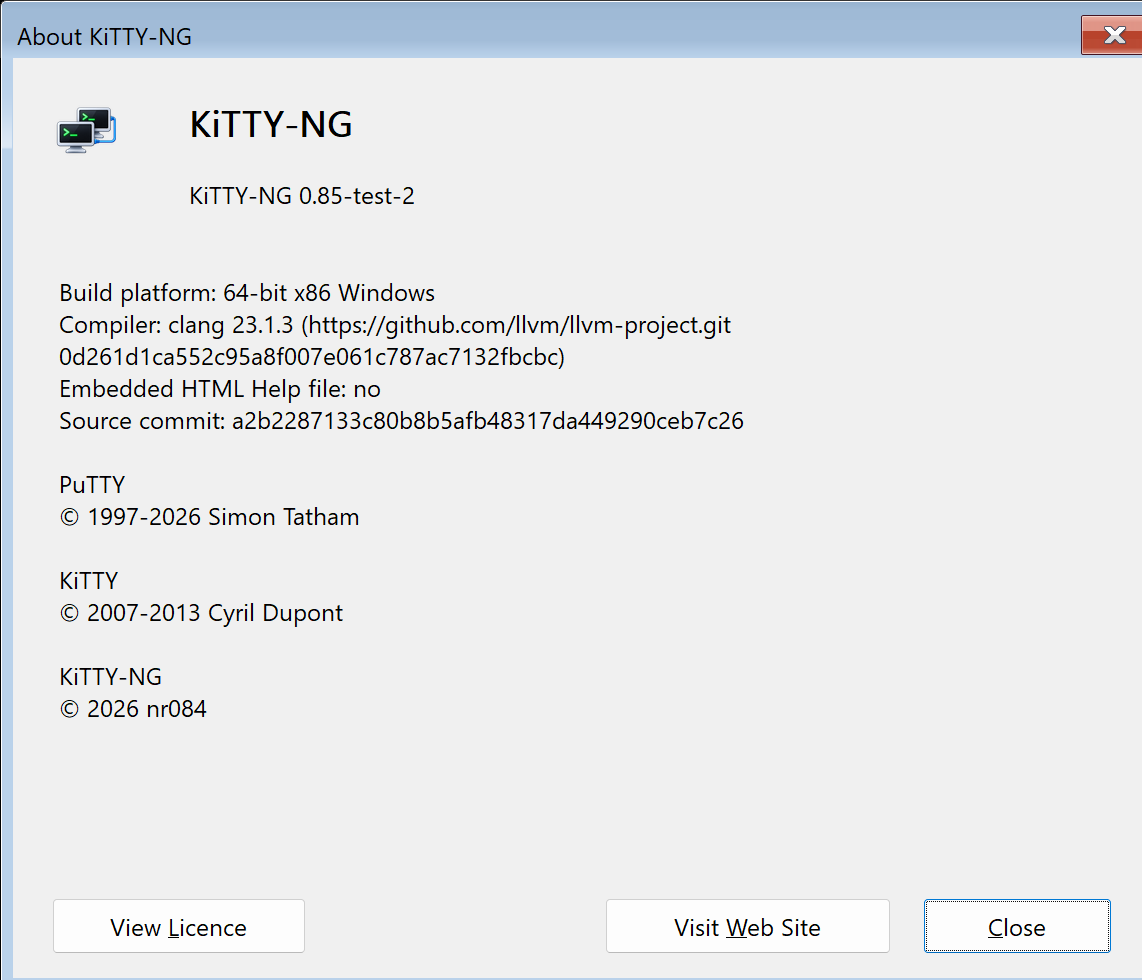
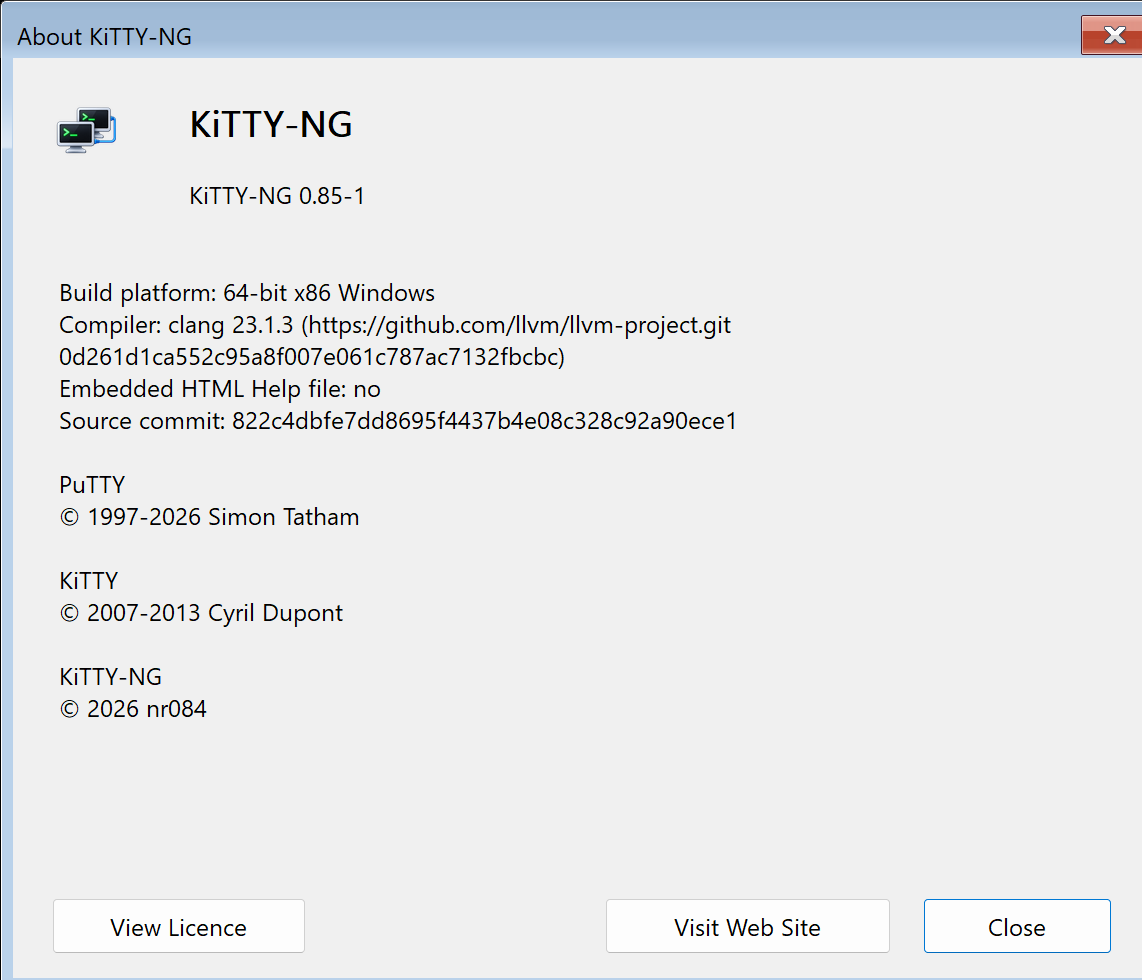
Подготовить релиз KiTTY-NG 0.85-1 без тестовой отметки

Changed region(s): [[0.2145, 0.398, 0.6436, 0.4592], [0.3065, 0.1837, 0.3678, 0.2143]]

diff --git a/tools/set-release-stage.py b/tools/set-release-stage.py
@@ -4,10 +4,14 @@ import re
 from pathlib import Path
 
 parser = argparse.ArgumentParser()
-parser.add_argument("stage", help="test, test-2, test-3, ... or stable")
+parser.add_argument("stage", help="KiTTY-NG revision: 1, 2, ...; legacy test/test-N/stable also accepted")
 args = parser.parse_args()
-if args.stage != "stable" and not re.fullmatch(r"test(?:-(?:[2-9]|[1-9][0-9]+))?", args.stage):
-    parser.error("stage must be test, test-N (N >= 2), or stable")
+revision = int(args.stage) if re.fullmatch(r"[1-9][0-9]*", args.stage) else None
+is_test = bool(re.fullmatch(r"test(?:-(?:[2-9]|[1-9][0-9]+))?", args.stage))
+if revision is not None and revision > 65535:
+    parser.error("Windows version revision must be at most 65535")
+if revision is None and args.stage != "stable" and not is_test:
+    parser.error("stage must be a positive revision number, test, test-N, or stable")
 root = Path(__file__).resolve().parents[1]
 header = root / "version.h"
 text = header.read_text()
@@ -16,7 +20,10 @@ base = re.search(r"^#define RELEASE (\d+\.\d+)$", text, re.M).group(1)
 version = base + ("" if args.stage == "stable" else "-" + args.stage)
 text = re.sub(r'^#define TEXTVER .*$', f'#define TEXTVER "KiTTY-NG {version}"', text, flags=re.M)
 text = re.sub(r'^#define SSHVER .*$', f'#define SSHVER "-Release-{version}"', text, flags=re.M)
-if args.stage != "stable":
+major, minor = map(int, base.split("."))
+text = re.sub(r'^#define BINARY_VERSION .*$',
+              f'#define BINARY_VERSION {major},{minor},{revision or 0},0', text, flags=re.M)
+if is_test:
     text = text.replace(f"#define RELEASE {base}\n", f"#define RELEASE {base}\n#define PRERELEASE 1\n")
 header.write_text(text)
 (root / "VERSION").write_text(version + "\n")

diff --git a/tools/package-release.py b/tools/package-release.py
@@ -2,6 +2,7 @@
 import argparse
 import hashlib
 import struct
+import re
 import zipfile
 from pathlib import Path
 from build_names import release_executables
@@ -15,12 +16,23 @@ root = Path(__file__).resolve().parents[1]
 version = (root / "VERSION").read_text().strip()
 machine = {"x64": 0x8664, "x86": 0x14c, "arm64": 0xaa64}[args.arch]
 names = release_executables(args.arch)
+base = re.match(r"(\d+)\.(\d+)", version)
+assert base
+major, minor = map(int, base.groups())
+suffix = version[len(base.group()):]
+revision = int(suffix[1:]) if re.fullmatch(r"-[1-9][0-9]*", suffix) else 0
+fixed_version = ((major << 16) | minor, revision << 16)
 for name in names:
     data = (args.build / name).read_bytes()
     offset = struct.unpack_from("<I", data, 0x3c)[0]
     assert data[:2] == b"MZ" and data[offset:offset+4] == b"PE\0\0"
     assert struct.unpack_from("<H", data, offset+4)[0] == machine, name
     assert ("KiTTY-NG " + version).encode("utf-16le") in data, (name, "stale version resource")
+    fixed_offset = data.find(struct.pack("<I", 0xFEEF04BD))
+    assert fixed_offset >= 0, (name, "missing fixed version info")
+    fixed = struct.unpack_from("<13I", data, fixed_offset)
+    assert fixed[2:6] == fixed_version * 2, (name, "wrong binary version")
+    assert bool(fixed[7] & 2) == ("-test" in version), (name, "wrong prerelease flag")
 args.output.mkdir(parents=True, exist_ok=True)
 archive = args.output / f"kitty-ng-{version}-{args.arch}.zip"
 with zipfile.ZipFile(archive, "w", compression=zipfile.ZIP_DEFLATED, compresslevel=9) as bundle:

diff --git a/tools/publish-release.py b/tools/publish-release.py
@@ -67,7 +67,10 @@ for asset in report["archives"]:
     print("Uploaded:", path.name, flush=True)
 release = request(API + "/releases/" + str(release["id"]), "GET")
 assert {a["name"] for a in release["assets"]} == expected
-release = request(API + "/releases/" + str(release["id"]), "PATCH", {"draft": False})
+publication = {"draft": False}
+if not metadata["prerelease"]:
+    publication["make_latest"] = "true"
+release = request(API + "/releases/" + str(release["id"]), "PATCH", publication)
 assert not release["draft"]
 # Confirm publication and exact assets; previous releases are retained.
 published = request(API + "/releases/tags/" + tag)

diff --git a/version.h b/version.h
@@ -1,6 +1,5 @@
 /* Generated by automated build script */
 #define RELEASE 0.85
-#define PRERELEASE 1
-#define TEXTVER "KiTTY-NG 0.85-test-3"
-#define SSHVER "-Release-0.85-test-3"
-#define BINARY_VERSION 0,85,0,0
+#define TEXTVER "KiTTY-NG 0.85-1"
+#define SSHVER "-Release-0.85-1"
+#define BINARY_VERSION 0,85,1,0

diff --git a/README.md b/README.md
@@ -6,13 +6,13 @@ SSH, Telnet и последовательный терминал для Windows 
 
 <img src="icons/kitty-ng.png" width="192" alt="Два соединённых терминала">
 
-**Тестовая версия: 0.85-test-3.** Перенос расширений KiTTY продолжается. Это новая база PuTTY с адаптированными расширениями, а не полная копия всех возможностей старого KiTTY. Статус переноса описан в [документе миграции](docs/migration.md).
+**Версия: 0.85-1.** Перенос расширений KiTTY продолжается. Это новая база PuTTY с адаптированными расширениями, а не полная копия всех возможностей старого KiTTY. Статус переноса описан в [документе миграции](docs/migration.md).
 
 ## Скачать и запустить
 
 Сборки публикуются в [релизах](https://github.com/nr084/kitty-ng/releases). Выберите Windows **x64**, **x86** или **ARM64**, распакуйте архив и запустите соответственно `kitty-ng-x64.exe`, `kitty-ng-x86.exe` или `kitty-ng-arm64.exe`. Установка не требуется. В комплект входят klink, kscp, ksftp, kittygen и kageant на базе утилит PuTTY.
 
-Релиз содержит три архива: `kitty-ng-0.85-test-3-x64.zip`, `kitty-ng-0.85-test-3-x86.zip` и `kitty-ng-0.85-test-3-arm64.zip`. Все EXE внутри имеют суффикс архитектуры. Например, архив x64 содержит `kitty-ng-x64.exe`, `klink-x64.exe`, `kscp-x64.exe`, `ksftp-x64.exe`, `kittygen-x64.exe` и `kageant-x64.exe`. В остальных архивах используется суффикс `-x86` или `-arm64`. В именах EXE версия не добавляется; встроенные сведения о версии сохраняются. Контрольные суммы архивов приводятся в описании релиза.
+Релиз содержит три архива: `kitty-ng-0.85-1-x64.zip`, `kitty-ng-0.85-1-x86.zip` и `kitty-ng-0.85-1-arm64.zip`. Все EXE внутри имеют суффикс архитектуры. Например, архив x64 содержит `kitty-ng-x64.exe`, `klink-x64.exe`, `kscp-x64.exe`, `ksftp-x64.exe`, `kittygen-x64.exe` и `kageant-x64.exe`. В остальных архивах используется суффикс `-x86` или `-arm64`. В именах EXE версия не добавляется; встроенные сведения о версии сохраняются. Контрольные суммы архивов приводятся в описании релиза.
 
 Архивы поставляются в портативном режиме: файл `kitty-ng.portable` включает хранение рядом с программой. Для хранения в реестре удалите этот маркер и убедитесь, что в `kitty.ini` нет `savemode=dir`. В обычном режиме используется ветка `HKCU\Software\KiTTY-NG`.
 
@@ -69,7 +69,7 @@ SSH, Telnet и последовательный терминал для Windows 
 
 ## Версии
 
-Числовая версия совпадает с базовой версией PuTTY. Первая тестовая публикация — `0.85-test-2`, следующая — `0.85-test-2`; после завершения проверки — `0.85`. Отдельный номер версии kitty-ng не добавляется. Git-теги имеют префикс `v`.
+Версия выпуска состоит из версии базы PuTTY и номера редакции KiTTY-NG: `0.85-1`, `0.85-2` и далее. Базовая часть остаётся равной версии импортированного PuTTY. Обычные выпуски публикуются без отметки `test`. Теги имеют вид `v0.85-1`; встроенные версии клиента и утилит совпадают.
 
 Plink, PSCP, PSFTP, PuTTYgen и Pageant собираются из той же актуальной базы PuTTY 0.85. Версии ресурсов всех утилит совпадают с основным клиентом. Проверка исходников по официальному архиву и его SHA-256: [отчёт](docs/putty-utilities-audit.json).
 
@@ -105,7 +105,7 @@ cmake --build --preset windows-x64 --parallel
 
 Проверены работающие сборки x64 и x86. ARM64 собрана и проверена по формату PE; запуск на устройстве ARM64 пока не проверен. Сборки не подписаны Authenticode.
 
-Изменение стадии выпуска: `python tools/set-release-stage.py test-2` или `stable`. После изменения каталога переводов выполните `python tools/generate-translations.py`.
+Номер редакции KiTTY-NG: `python tools/set-release-stage.py 1` для `0.85-1`, `2` для `0.85-2` и далее. База остаётся равной версии PuTTY. Версию повышать только по отдельной команде на выпуск. После изменения каталога переводов выполните `python tools/generate-translations.py`.
 
 ## Происхождение и лицензия
 

diff --git a/AGENTS.md b/AGENTS.md
@@ -5,8 +5,9 @@
 - Использовать последнюю стабильную версию компилятора и сохранять точные сведения об инструментах сборки.
 - Компилятор LLVM-MinGW устанавливать локально в `_tools/llvm-mingw/<выпуск>/toolchain` и сохранять между сборками. Перед обычной сборкой проверять последний стабильный выпуск; временные загрузки и промежуточные файлы удалять, установленный компилятор не считать временным файлом.
 - Собирать и проверять выпуски локально через `python tools/local-build.py`; GitHub Actions для сборки не использовать.
-- Числовая версия проекта совпадает с версией базового PuTTY. Тестовые стадии: `-test`, `-test-2` и далее; стабильный выпуск — без суффикса.
+- Версия выпуска имеет вид `<версия базового PuTTY>-<редакция KiTTY-NG>`, начиная с `0.85-1`, далее `0.85-2` и т. д. Базовую часть не менять независимо от PuTTY. Редакция — положительное число; в ресурсах Windows хранить `0,85,1,0` для выпуска `0.85-1`. Обычные выпуски не помечать тестовыми.
 - При публикации новых версий сохранять все предыдущие релизы GitHub и их вложения. Не удалять старые релизы, кроме случая нового прямого указания пользователя удалить конкретный релиз. Это правило заменяет прежнее указание удалять предыдущий релиз после публикации нового.
+- При переходе на `0.85-1` по прямой команде пользователя удалить существующие релизы `test` из GitHub после успешной публикации. Это разовая очистка; последующие старые релизы сохранять.
 - Вносить запрошенные изменения без автоматического выпуска релиза. Создавать и публиковать релиз, включая черновик GitHub, только после новой отдельной прямой команды пользователя на выпуск. Прежние указания публиковать релизы не считать разрешением на следующие выпуски. Без такой команды не повышать стадию версии и не создавать релизные теги; локальная сборка и проверка изменений допускаются.
 - Выпуск содержит три ZIP: x64, x86 и ARM64. В имени ZIP указывать версию и архитектуру. Внутри использовать обычные имена EXE без номера версии; все утилиты должны соответствовать архитектуре архива. Встроенные версии EXE сохранять.
 - Основной клиент называть `kitty-ng-x86.exe`, `kitty-ng-x64.exe` и `kitty-ng-arm64.exe` соответственно архитектуре; номер версии в имя EXE не добавлять.

diff --git a/docs/releases/0.85-1.md b/docs/releases/0.85-1.md
@@ -1,0 +1,18 @@
+# KiTTY-NG 0.85-1
+
+Первый выпуск с новой схемой версий: `0.85` — база PuTTY, `1` — редакция KiTTY-NG. Выпуск публикуется без отметки `test`.
+
+- Исправлено сохранение языка интерфейса. Рядом с раскрывающимся списком появилась кнопка «Применить»: она сохраняет язык для следующих запусков и обновляет интерфейс на текущей панели.
+- В главном окне список сохранённых сеансов вмещает 14 строк, а блок «Закрывать окно при выходе» расположен внизу с тремя вариантами.
+- Сохраняется совместимость с портативными настройками оригинального KiTTY, папками сеансов и сохранёнными паролями.
+- Передача файлов через SFTP/SCP: отправка, скачивание и перетаскивание файлов и каталогов, Unicode-имена, настройки текущего SSH-сеанса, сохранённый пароль или ключ. Клиент вызывает kscp соответствующей архитектуры.
+
+В выпуске три ZIP для Windows x64, x86 и ARM64; в каждом находятся клиент, klink, kscp, ksftp, kittygen и kageant своей архитектуры. В именах EXE нет версии, встроенные версии сохранены. Сборка выполнена локально стабильным Clang 23.1.3 / LLVM-MinGW 20261006.
+
+На x64 и x86 проверены настройки и пароли KiTTY, SSH-аутентификация, SFTP/SCP, сохранённый SSH-ключ и сохранение языка после повторного запуска. Для ARM64 проверяются сборка, архитектура PE и версия; запуск на ARM64-устройстве ещё требуется. Успешные незатронутые тесты используются повторно.
+
+Благодарности Simon Tatham и участникам PuTTY, а также Cyril Dupont (cyd01), автору KiTTY. Оригинальные тексты лицензий и уведомления об авторских правах сохранены.
+
+Перенос расширений KiTTY продолжается. Zmodem, FAR2L, фоновые изображения, скрипты RuTTY, port knocking и остальные перечисленные в отчёте миграции расширения пока не входят в выпуск. Целиком зашифрованные профили с мастер-паролем не поддерживаются. EXE не подписаны Authenticode.
+
+Тестовые релизы удаляются при этом переходе по прямому указанию пользователя. Следующие предыдущие релизы сохраняются.

diff --git a/README.en.md b/README.en.md
@@ -6,13 +6,13 @@ SSH, Telnet and serial terminal for Windows, based on PuTTY 0.85, with English a
 
 <img src="icons/kitty-ng.png" width="192" alt="Two connected terminals">
 
-**Test version: 0.85-test-3.** Migration of KiTTY extensions is ongoing. This release uses a modern PuTTY codebase with selected KiTTY features; it does not yet include every feature of the original KiTTY. The [migration report](docs/migration.md) describes the current scope in Russian.
+**Release: 0.85-1.** Migration of KiTTY extensions is ongoing. This release uses a modern PuTTY codebase with selected KiTTY features; it does not yet include every feature of the original KiTTY. The [migration report](docs/migration.md) describes the current scope in Russian.
 
 ## Download and run
 
 Download the appropriate archive from [Releases](https://github.com/nr084/kitty-ng/releases): **x64**, **x86** or **ARM64**. Extract it and run `kitty-ng-x64.exe`, `kitty-ng-x86.exe` or `kitty-ng-arm64.exe`. No installation is required.
 
-Each release contains three archives: `kitty-ng-0.85-test-3-x64.zip`, `kitty-ng-0.85-test-3-x86.zip` and `kitty-ng-0.85-test-3-arm64.zip`. Every executable inside an archive uses the matching architecture suffix. For example, the x64 archive contains:
+Each release contains three archives: `kitty-ng-0.85-1-x64.zip`, `kitty-ng-0.85-1-x86.zip` and `kitty-ng-0.85-1-arm64.zip`. Every executable inside an archive uses the matching architecture suffix. For example, the x64 archive contains:
 
 ```text
 kitty-ng-x64.exe
@@ -80,7 +80,7 @@ Entire profiles encrypted with a master password are not yet supported. If a leg
 
 ## Versions
 
-The numeric version matches the base PuTTY release. Test stages use `0.85-test`, `0.85-test-2` and subsequent suffixes; a stable release uses `0.85`. Git tags start with `v`. Utilities and the main client share the same embedded release version. See the [upstream utilities audit](docs/putty-utilities-audit.json).
+Release versions combine the base PuTTY version and the KiTTY-NG revision: `0.85-1`, `0.85-2`, and so on. The base remains equal to the imported PuTTY version. Ordinary releases are not marked as prereleases. Git tags start with `v`. Utilities and the main client share the same embedded release version. See the [upstream utilities audit](docs/putty-utilities-audit.json).
 
 ## Local build
 
@@ -113,7 +113,7 @@ cmake --preset windows-x64
 cmake --build --preset windows-x64 --parallel
 ```
 
-Use `python tools/set-release-stage.py test-2` or `stable` to change the release stage. After editing translations, run `python tools/generate-translations.py`.
+Use `python tools/set-release-stage.py 1` for `0.85-1`, `2` for `0.85-2`, and so on. Change the version only after an explicit instruction to publish a release. After editing translations, run `python tools/generate-translations.py`.
 
 ## Acknowledgements and licenses
 

diff --git a/docs/releases/unreleased.md b/docs/releases/unreleased.md
@@ -1,7 +1,5 @@
 # Неопубликованные изменения
 
-- Исправлено сохранение языка интерфейса: обработчик списка теперь принимает правильное событие выбора.
-- Рядом со списком языка добавлена кнопка «Применить». Выбор до нажатия не записывается; после нажатия язык сохраняется для следующих запусков и интерфейс обновляется на той же панели.
-- Обновлены русский и английский README и скриншоты. Добавлена проверка сохранения языка между процессами в портативном режиме и изолированном реестре.
+Изменения выбора и сохранения языка включены в выпуск `0.85-1`.
 
 Релиз выпускается только по отдельной команде пользователя.
